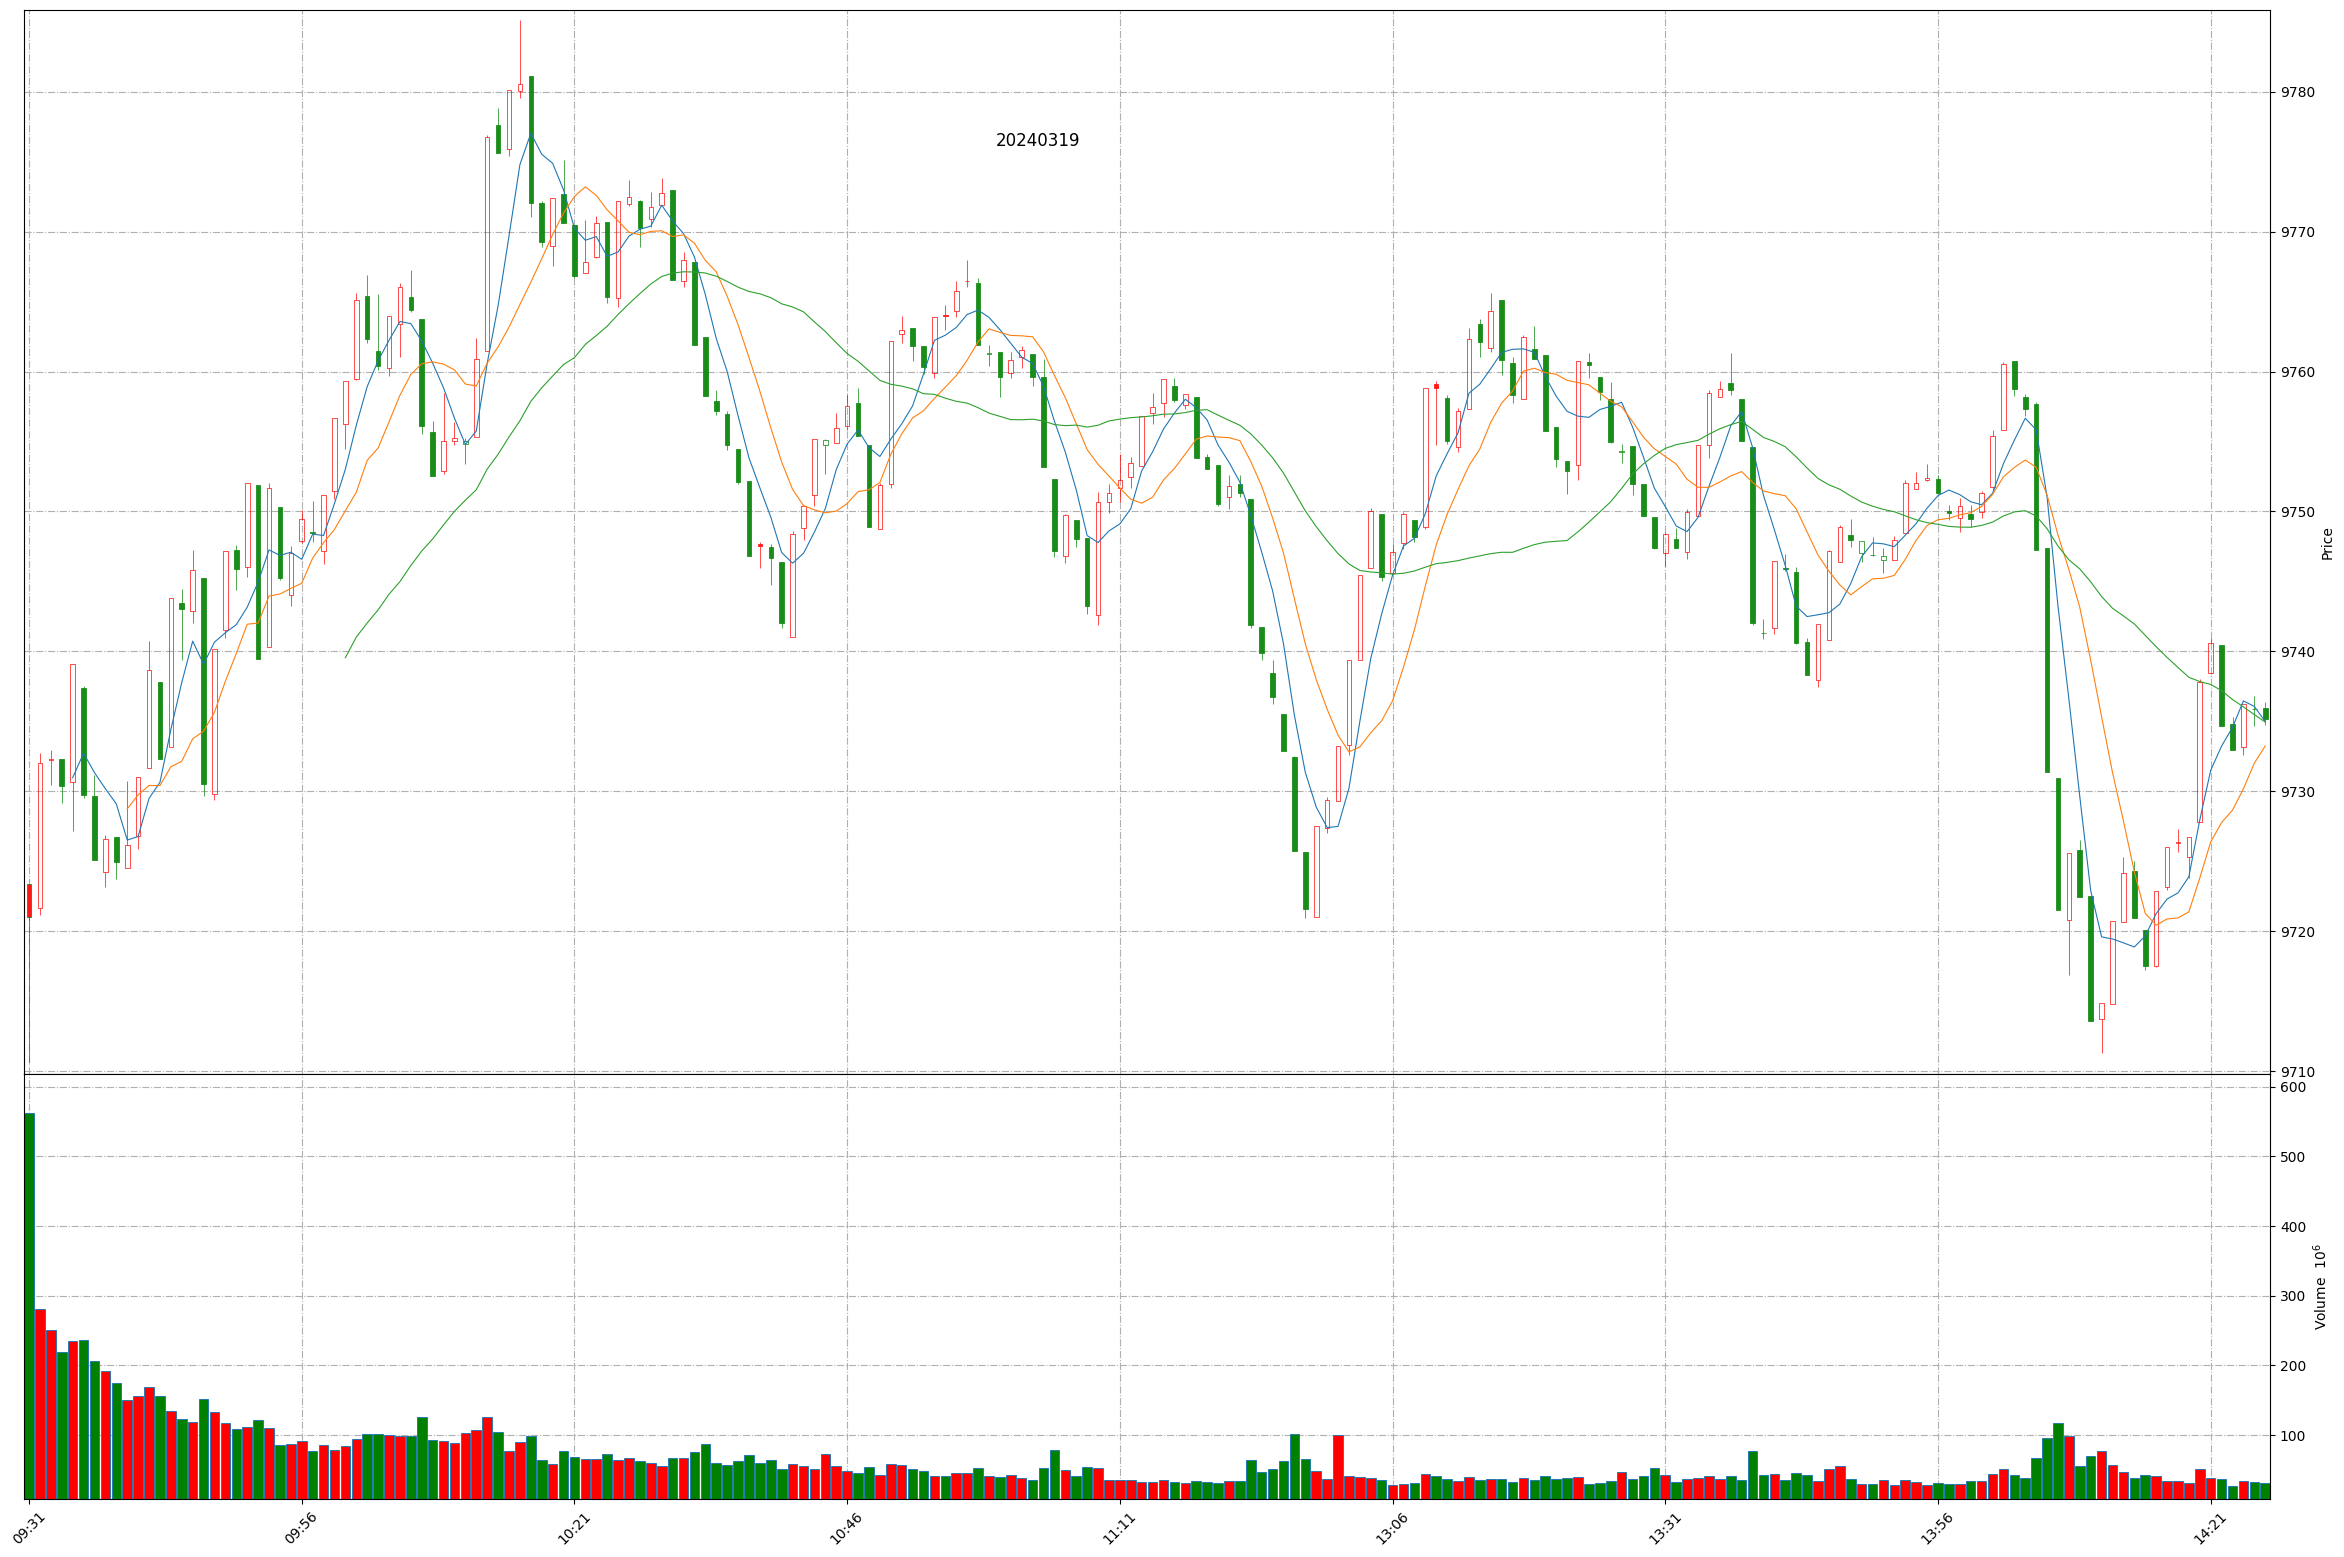
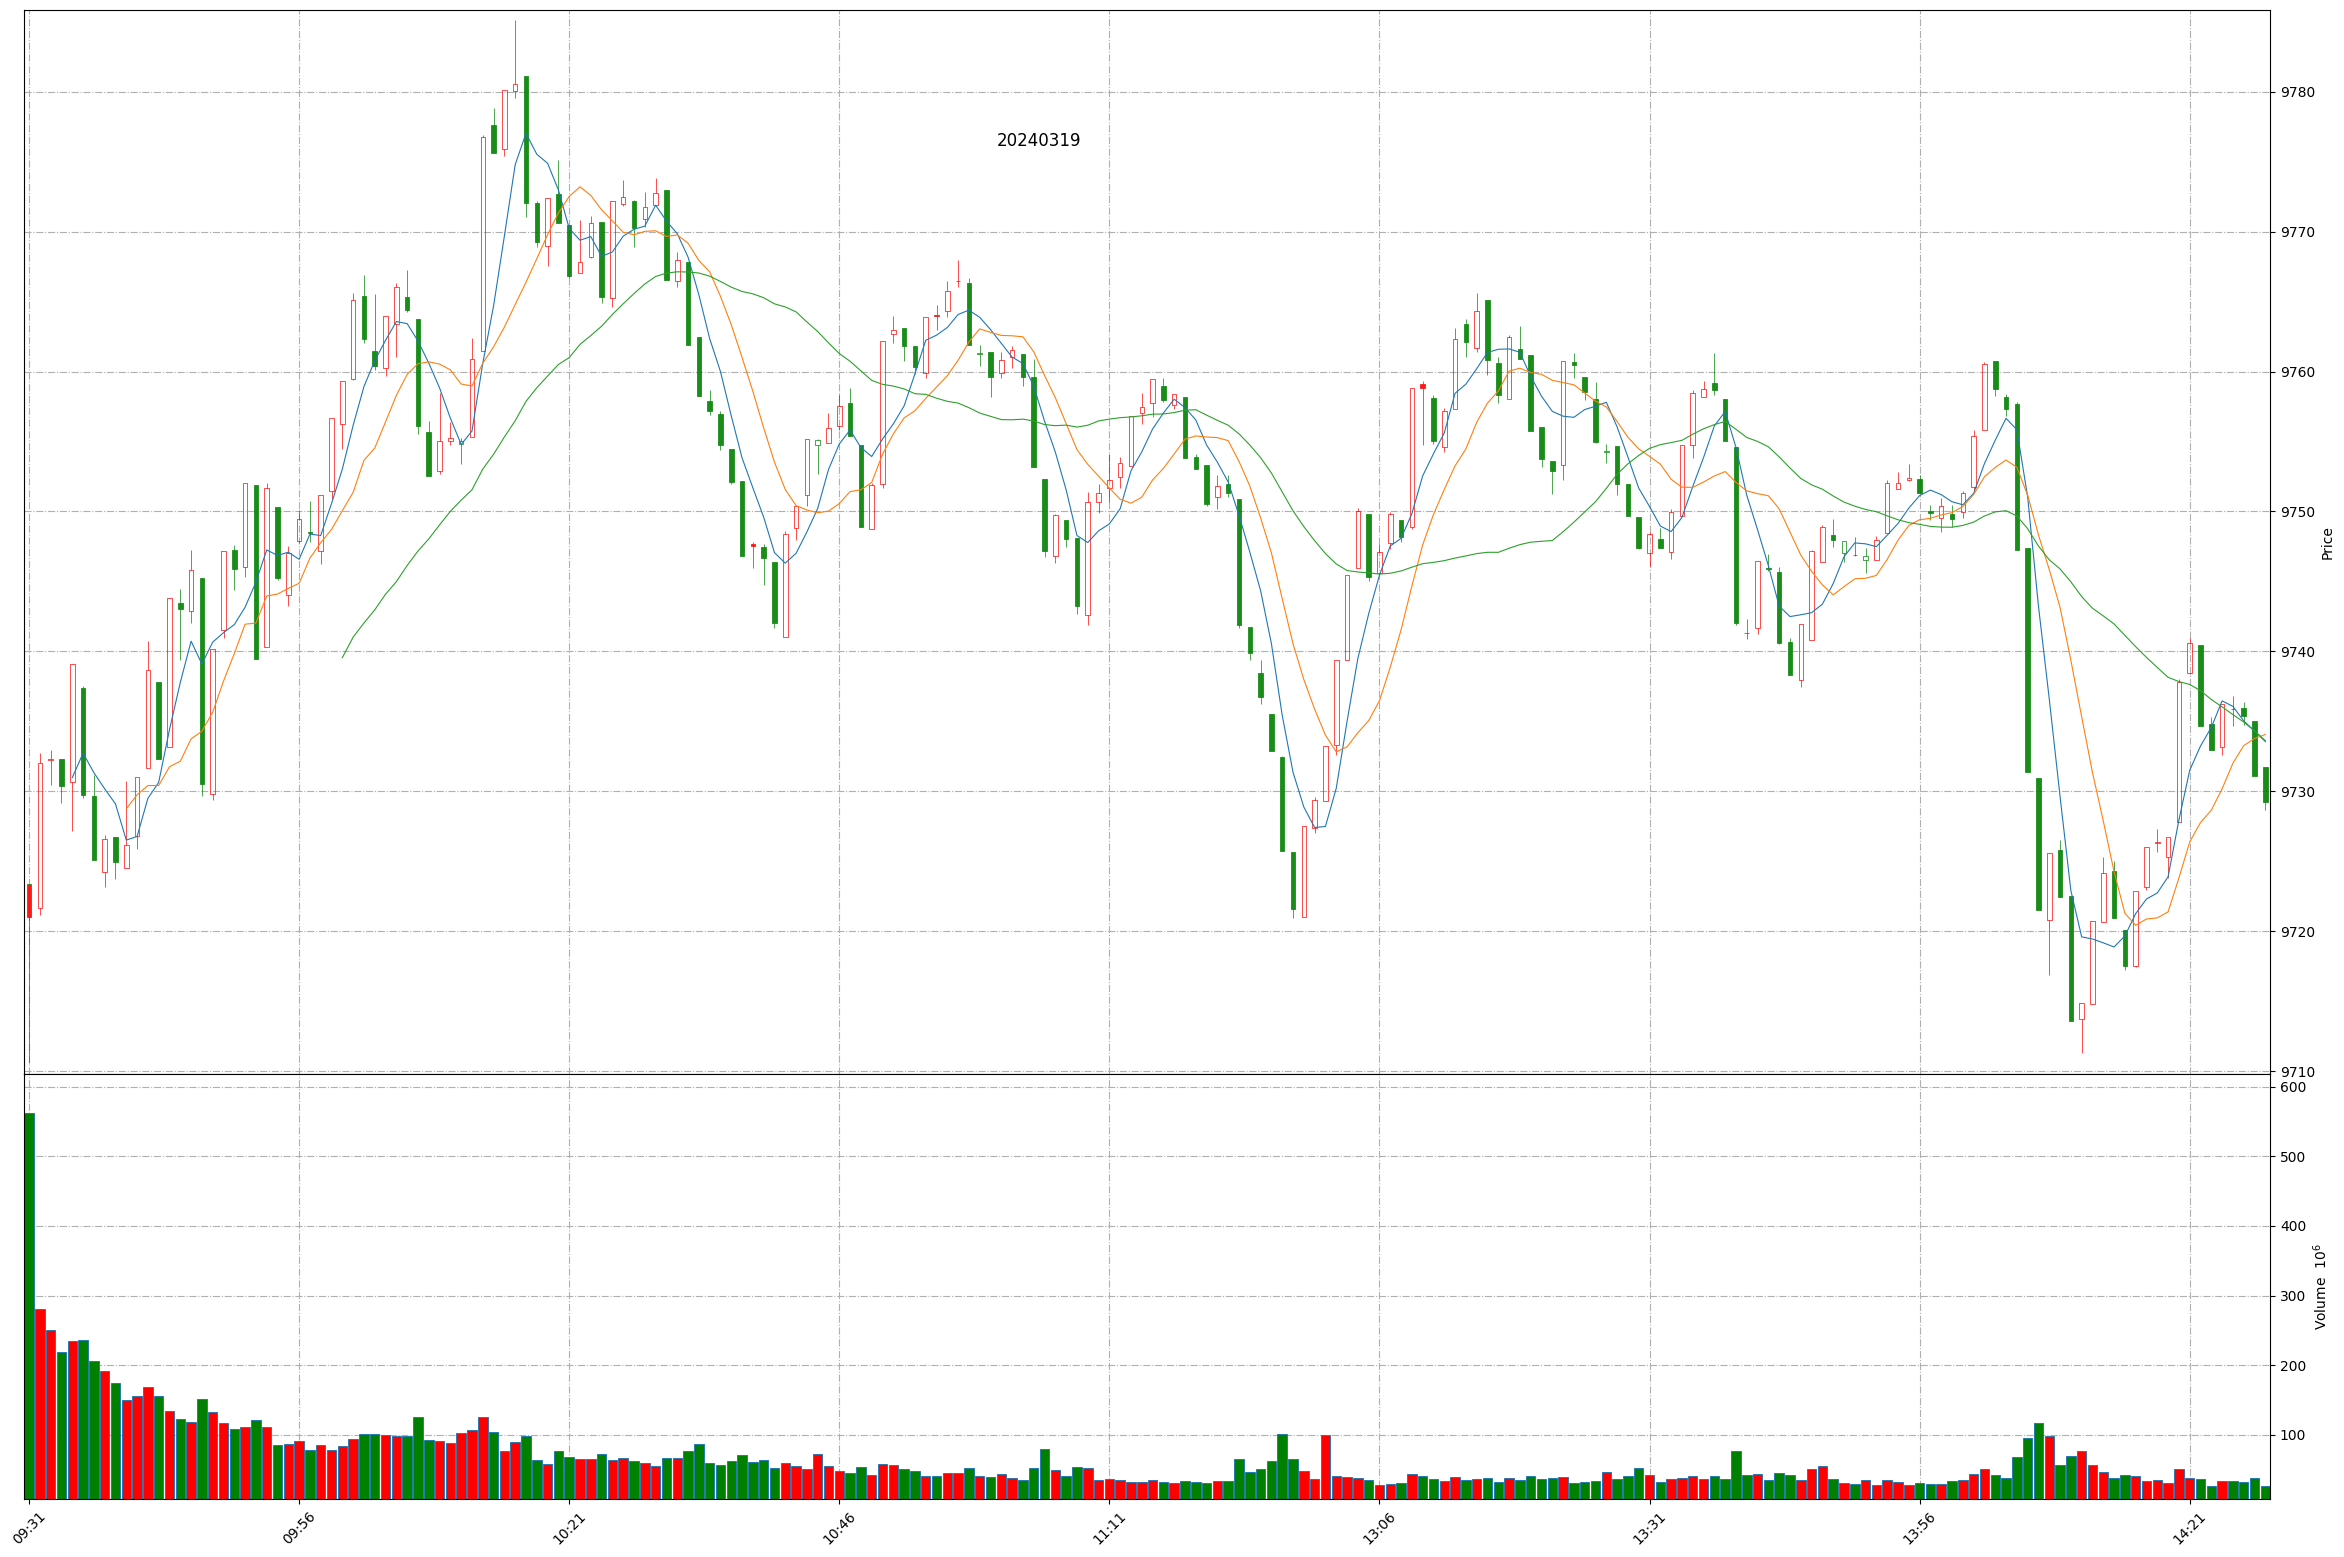
Github action update at 2024-03-19 14:27:59.

diff --git a/README.md b/README.md
@@ -1,11 +1,11 @@
 
 # Daily-A-share-market-quotes 每日 A 股指数（5min 更新）- 20240319
 
-### 上证指数 20240319 14:26
+### 上证指数 20240319 14:27
 ![](./fig/2024/3/20240319-sh000001.png)
 
-### 深证成指 20240319 14:26
+### 深证成指 20240319 14:27
 ![](./fig/2024/3/20240319-sz399001.png)
 
-### 北证50 20240319 14:26
+### 北证50 20240319 14:27
 ![](./fig/2024/3/20240319-bj899050.png)
